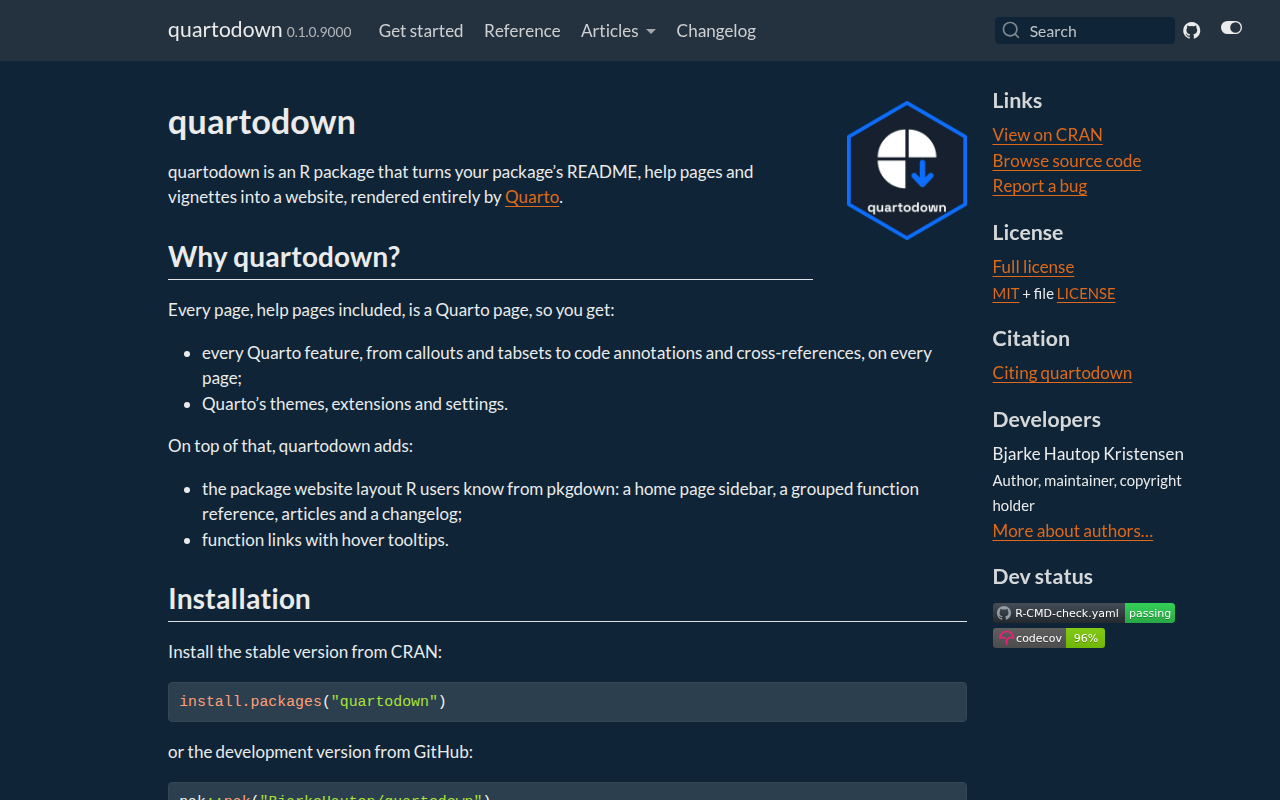
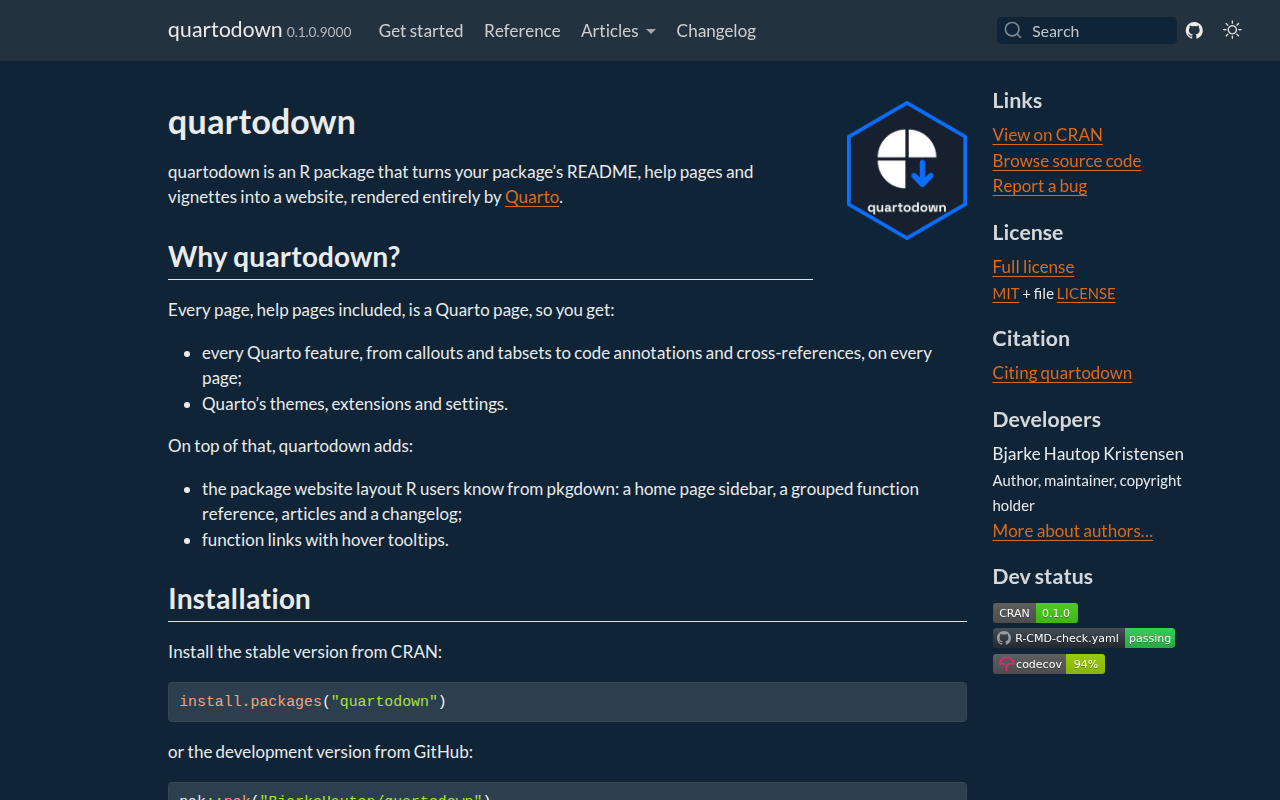
Lighten dark-theme code blocks and update gallery screenshots

Changed region(s): [[0.75, 0.75, 0.9375, 0.8438], [0.9062, 0.0312, 0.9688, 0.0625], [0.7812, 0.0312, 0.8438, 0.0625]]

diff --git a/inst/quarto/quartodown-dark.scss b/inst/quarto/quartodown-dark.scss
@@ -39,7 +39,7 @@ $border-color: $gray-400;
 $pre-color: inherit;
 $code-bg: $body-bg;
 $code-color: #c9a6dc;
-$code-block-bg: #1d1d20;
+$code-block-bg: #29292e;
 
 $footer-bg: $body-bg;
 $popover-bg: $gray-800;
